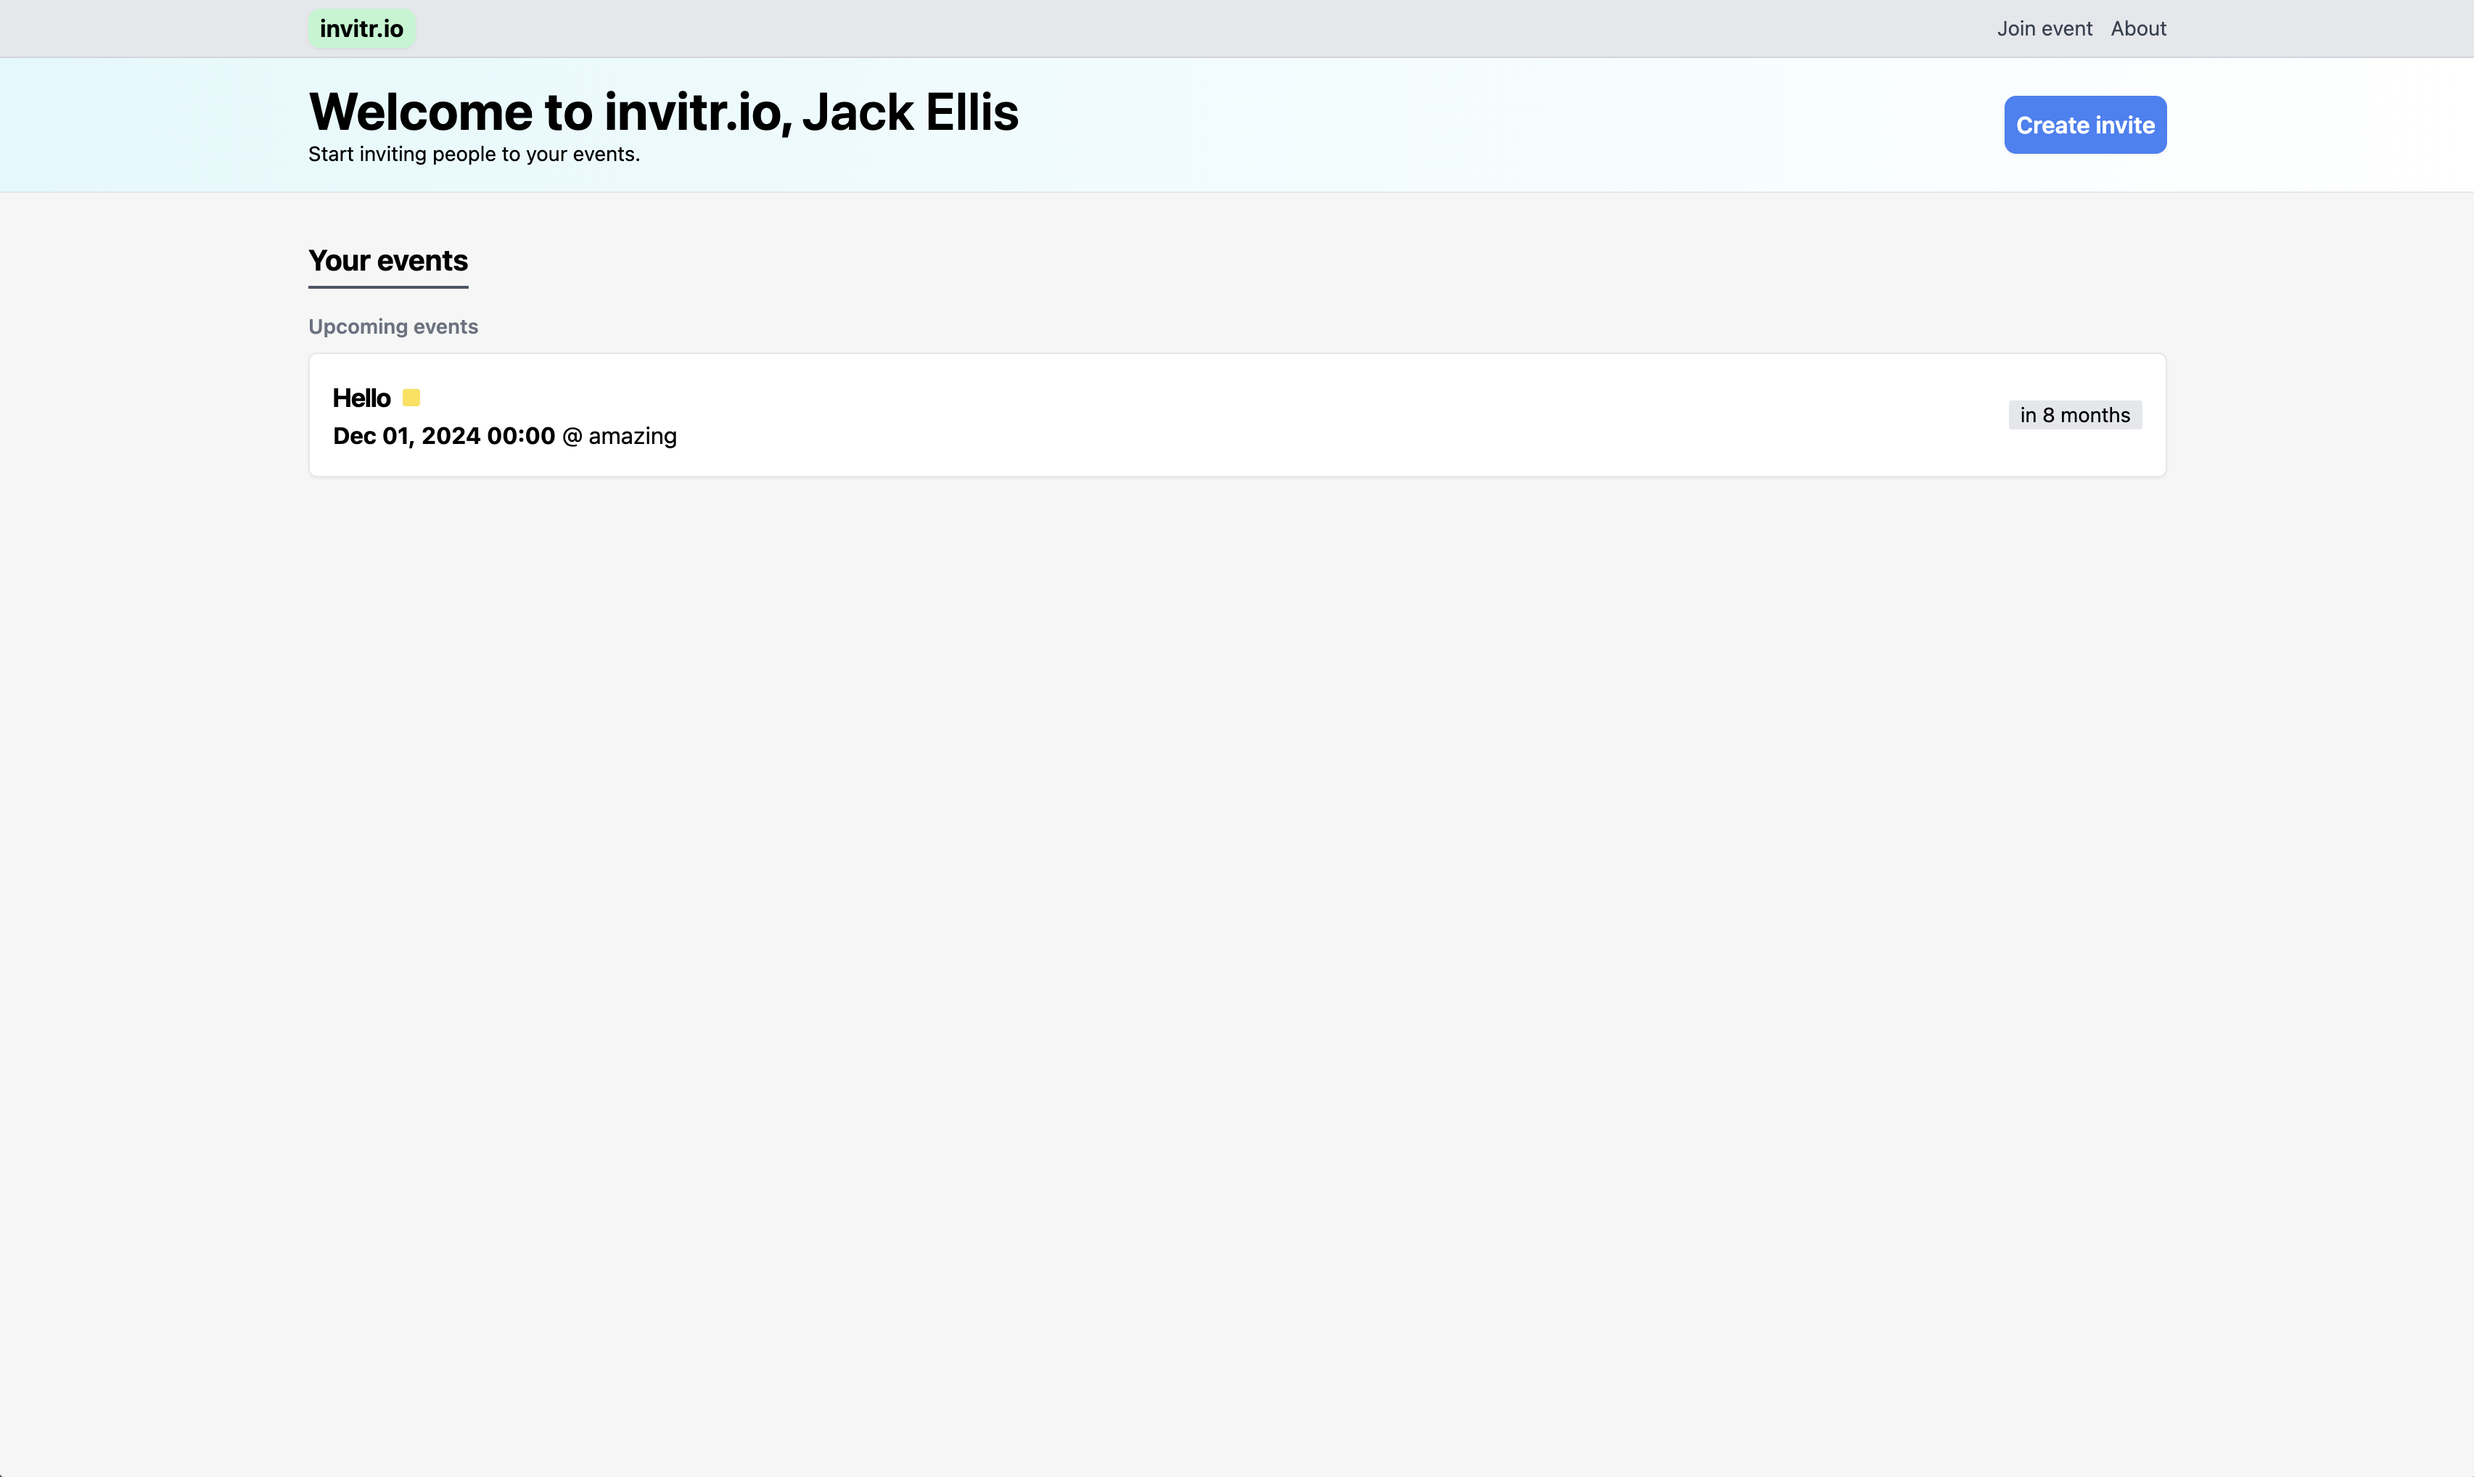
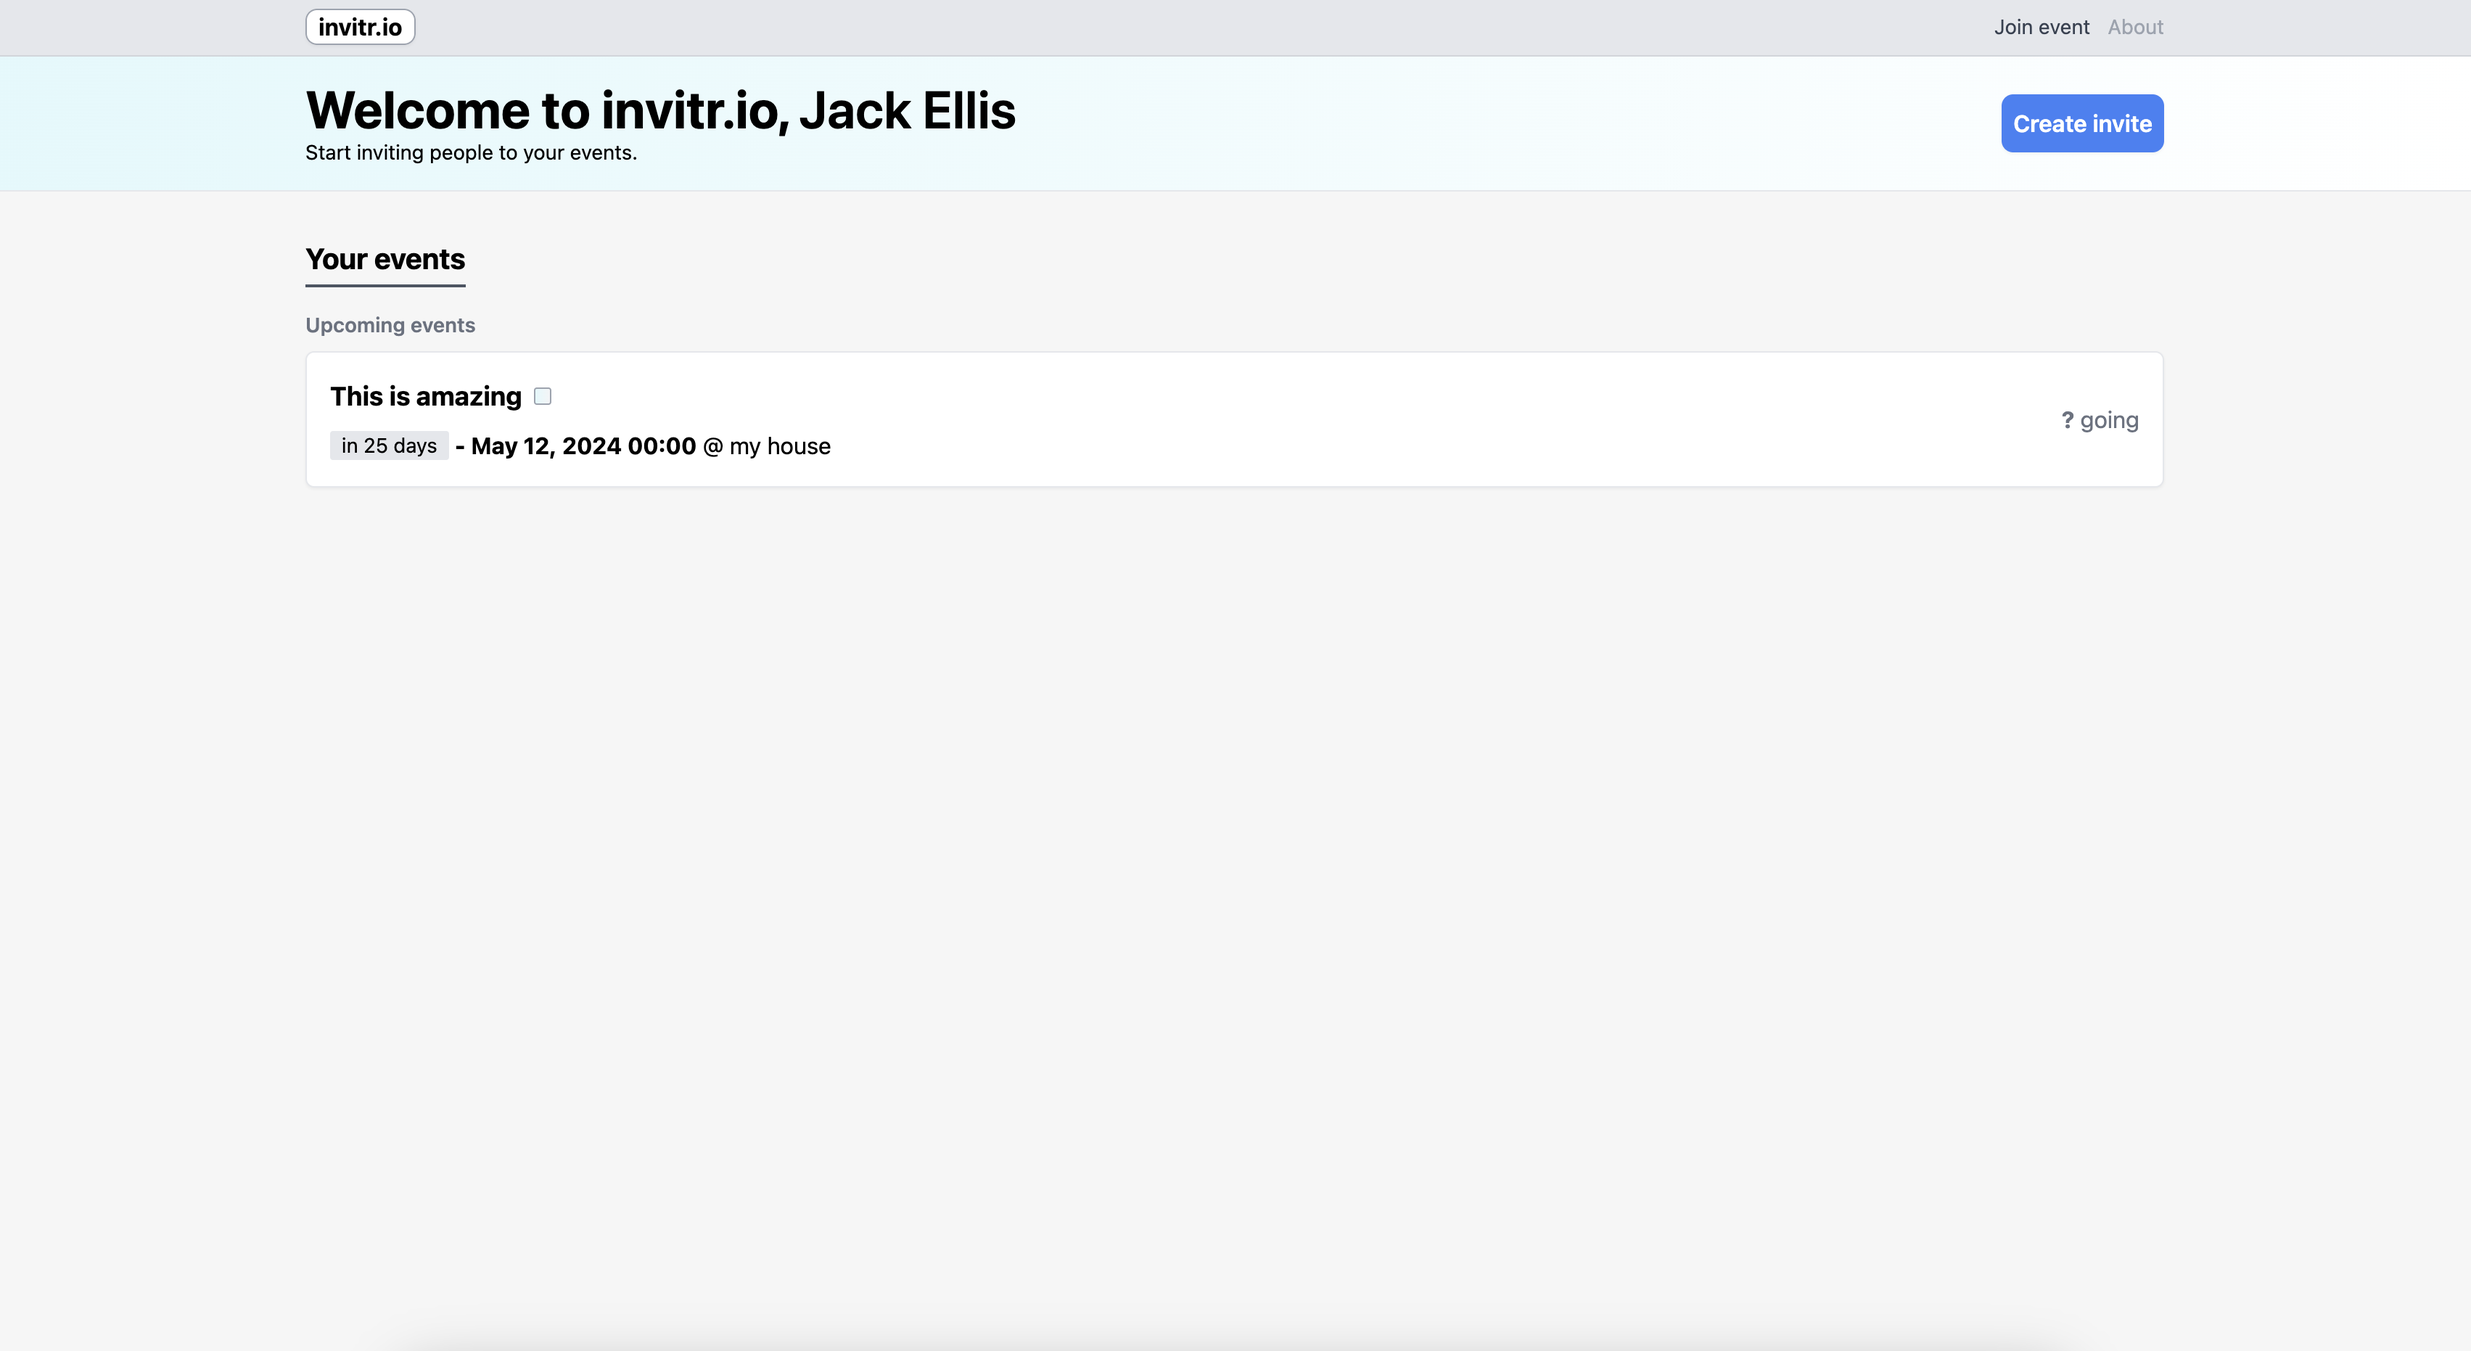
Updated invite styling

diff --git a/frontend/src/app/(main)/dashboard/components/Invite.tsx b/frontend/src/app/(main)/dashboard/components/Invite.tsx
@@ -21,11 +21,13 @@ async function Invite({ _key, invite }: Props) {
                             {invite.organiser == USER &&
                                 <div className='h-3 w-3 bg-gradient-to-r from-[#e1f9fc] to-gray-100 border border-gray-400 rounded-sm' title="You are the organiser of this event"></div>}
                         </div>
-
-                        <p><span className="font-bold">{getDate(invite.date)}</span> @ {invite.location}</p>
+                        <div className="flex gap-1 items-center mt-2">
+                            <p className="text-sm bg-gray-200 inline-block px-2 rounded-sm">{getDateRelative(invite.date)}</p>
+                            <p><span className="font-bold"> - {getDate(invite.date)}</span> @ {invite.location}</p>
+                        </div>
                     </div>
 
-                    <p className="text-sm bg-gray-200 inline-block px-2 rounded-sm">{getDateRelative(invite.date)}</p>
+                    <p className="text-gray-500"><span className="font-bold">?</span> going</p>
                 </div>
             </a>
         </div>

diff --git a/frontend/src/app/(main)/dashboard/layout.tsx b/frontend/src/app/(main)/dashboard/layout.tsx
@@ -1,8 +1,8 @@
 import UserService from "@/app/lib/services/UserService";
 import ErrorCard from "@/app/lib/components/ErrorCard";
 import { USER } from "@/app/page";
+import ActionButton from "@/app/lib/components/ActionButton";
 import { Err } from "@/app/lib/services/Err";
-
 
 export default async function DashboardLayout({ children }: Readonly<{ children: React.ReactNode; }>) {
     try {
@@ -33,9 +33,10 @@ export default async function DashboardLayout({ children }: Readonly<{ children:
             </>
         )
     } catch (e) {
+        const err = e as Err;
         return (
             <div className="w-3/4 mx-auto mt-2 flex justify-center items-center">
-                <ErrorCard />
+                <ErrorCard error={err.message} />
             </div>
         )
     }

diff --git a/frontend/src/app/(main)/invite/[id]/components/InviteOverview.tsx b/frontend/src/app/(main)/invite/[id]/components/InviteOverview.tsx
@@ -10,8 +10,10 @@ const InviteOverview = ({ invite }: Props) => {
         <div>
             <h1 className="font-bold text-5xl">{invite.title}</h1>
             <h1 className="font-semibold text-2xl mt-2">@ {invite.location}</h1>
-            <h1 className="font-semibold text-xl mt-2">{getDate(invite.date)}</h1>
-            <p className="text-sm bg-gray-200 inline-block px-2 rounded-sm animate-pulse">{getDateRelative(invite.date)}</p>
+            <div className="flex gap-1 items-center mt-2">
+                <p className="text-sm bg-gray-200 inline-block px-2 py-1 rounded-sm animate-pulse">{getDateRelative(invite.date)}</p>
+                <h1 className="font-semibold text-xl">- {getDate(invite.date)}</h1>
+            </div>
         </div>
     )
 }

diff --git a/frontend/src/app/lib/components/Header.tsx b/frontend/src/app/lib/components/Header.tsx
@@ -1,9 +1,11 @@
+import Logo from "./Logo";
+
 const Header = () => {
     return (
         <div className='w-full h-10 bg-gray-200 flex items-center sticky top-0 border-b border-b-gray-300'>
             <div className='flex items-center justify-between w-3/4 mx-auto'>
                 <a href='/'>
-                    <h1 className="font-bold px-2 py-[2px] bg-green-200 shadow-sm inline rounded-lg">invitr.io</h1>
+                    <Logo />
                 </a>
 
                 <div className="flex gap-3 items-center">

diff --git a/frontend/src/app/lib/services/NetworkService.ts b/frontend/src/app/lib/services/NetworkService.ts
@@ -27,7 +27,9 @@ class NetworkService {
                 throw redirect('/login');
             }
 
-            throw new Err('Oops, something wrong has happened.', response.status);
+            const message = await response.text();
+
+            throw new Err(message, response.status);
         }
 
         return await response.json();

diff --git a/frontend/src/app/lib/components/Logo.tsx b/frontend/src/app/lib/components/Logo.tsx
@@ -1,0 +1,7 @@
+const Logo = () => {
+    return (
+        <h1 className="font-bold px-2 py-[2px] bg-white border border-gray-400 shadow-sm inline rounded-lg hover:bg-gray-50">invitr.io</h1>
+    )
+}
+
+export default Logo;
